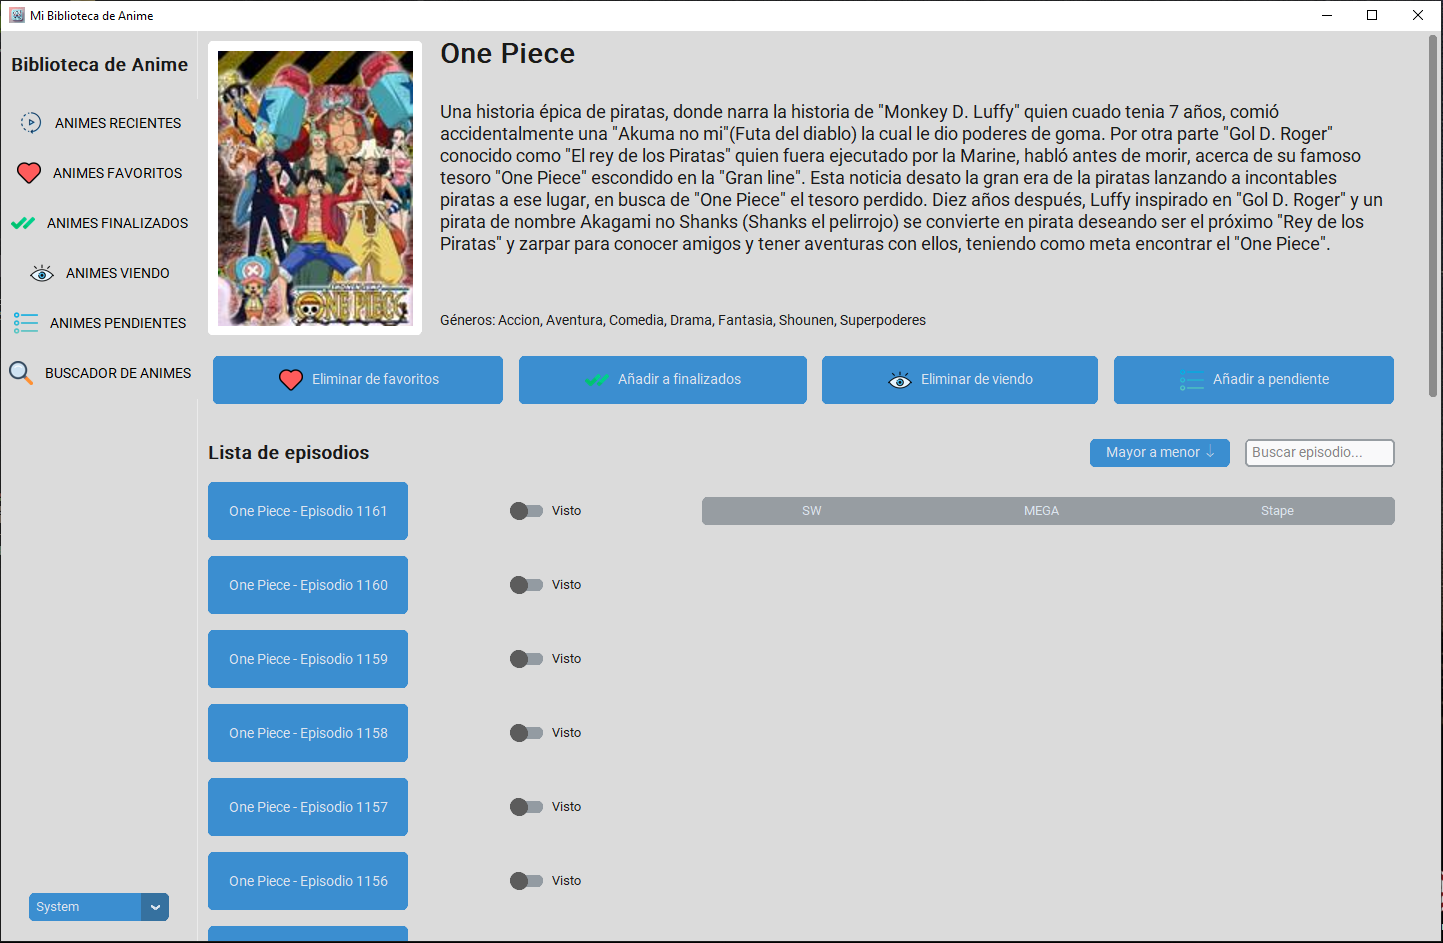
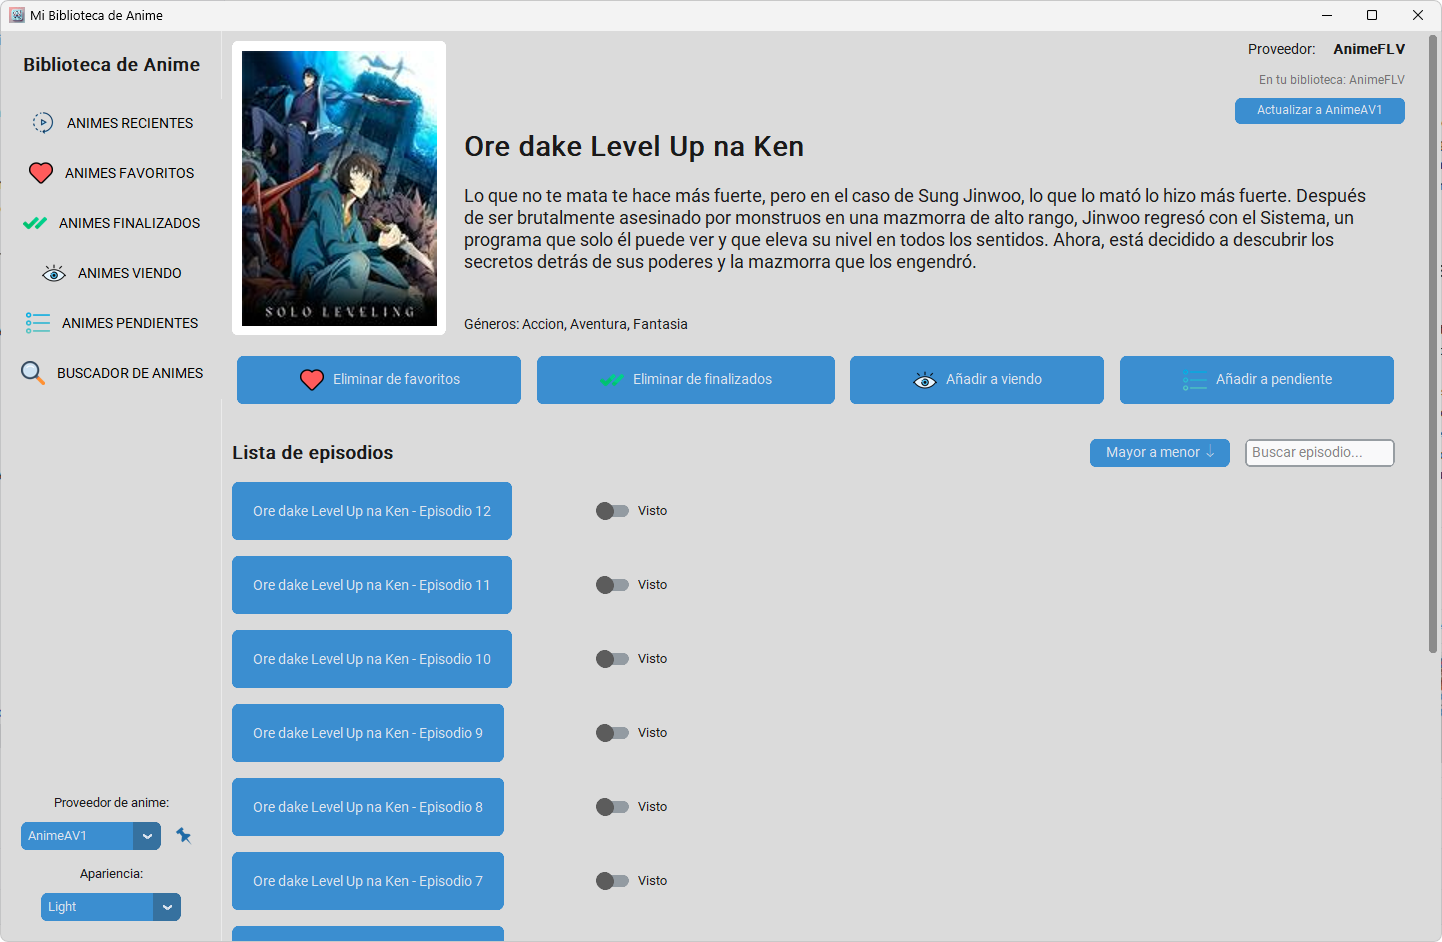
Actualización v0.2.0 del proyecto.

diff --git a/README.md b/README.md
@@ -31,8 +31,8 @@ A diferencia de plataformas como MyAnimeList o Anilist, este proyecto nace con u
 
 ## Capturas de Pantalla
 
-| Vista Principal | Detalles del Anime |
-| :---: | :---: |
+|               Vista Principal               |               Detalles del Anime               |
+|:-------------------------------------------:|:----------------------------------------------:|
 | ![](resources/images/utils/MainWindows.PNG) | ![](resources/images/utils/AnimeWindow.PNG) |
 
 ---
@@ -85,20 +85,34 @@ MiBibliotecaAnime/
 ├── src/
 │   ├── app.py                          # Punto de entrada principal
 │   ├── APIs/
+│   │   ├── common/
+│   │   │   ├── models.py               # Estructuras de datos comunes a todos los proveedores
+│   │   │   └── animeProviderMgr.py     # Gestor de proveedores de Anime
+│   │   ├── animeav1/
+│   │   │   └── animeav.py              # Cliente web scraping de AnimeAV1
+│   │   ├── jkanime/
+│   │   │   └── jkanime.py              # Cliente web scraping de JKAnime
 │   │   └── animeflv/
 │   │       └── animeflv.py             # Cliente web scraping de AnimeFLV
 │   ├── dataPersistence/
-│   │   └── animesPersistence.py        # Capa de acceso a datos (SQLite)
+│   │   ├── animesPersistence.py        # Capa de acceso a datos de animes persistidos (SQLite)
+│   │   └── userPersistence.py          # Capa de acceso a datos del usuario persistidos (SQLite)
 │   ├── gui/
 │   │   ├── main_window.py              # Ventana principal (CTk)
 │   │   ├── anime_window.py             # Vista de detalle de un anime
 │   │   └── sidebarButtons/
-│   │       ├── recentAnimes/           # Botón y vista: animes recientes
-│   │       ├── favouriteAnimes/        # Botón y vista: favoritos
-│   │       ├── finishedAnimes/         # Botón y vista: finalizados
-│   │       ├── watchingAnimes/         # Botón y vista: viendo
-│   │       ├── pendingAnimes/          # Botón y vista: pendientes
-│   │       └── searchAnimes/           # Botón y vista: buscador
+│   │       ├── recentAnimes/           
+│   │       │   └── recentAnimes.py     # Botón y vista: animes recientes
+│   │       ├── favouriteAnimes/        
+│   │       │   └── favouriteAnimes.py  # Botón y vista: favoritos
+│   │       ├── finishedAnimes/         
+│   │       │   └── favouriteAnimes.py  # Botón y vista: favoritos
+│   │       ├── watchingAnimes/         
+│   │       │   └── watchingAnimes.py   # Botón y vista: viendo
+│   │       ├── pendingAnimes/          
+│   │       │   └── pendingAnimes.py    # Botón y vista: pendientes
+│   │       └── searchAnimes/           
+│   │           └── searchAnimes.py     # Botón y vista: buscador
 │   └── utils/
 │       ├── utils.py                    # Helpers generales (imágenes, rutas, descarga)
 │       ├── buttons/
@@ -107,7 +121,8 @@ MiBibliotecaAnime/
 │           └── sqlite.py               # Abstracción sobre sqlite3
 ├── resources/
 │   ├── DB/
-│   │   └── DB_Animes.db                # Base de datos SQLite (generada en tiempo de ejecución)
+│   │   ├── DB_Animes.db                # Base de datos SQLite de Animes (generada en tiempo de ejecución)
+│   │   └── DB_user.db                  # Base de datos SQLite de configuración del usuario (generada en tiempo de ejecución)
 │   └── images/
 │       ├── utils/                      # Iconos de la app (app_icon.ico, loading-image.gif, etc.)
 │       ├── recent_animes/              # Posters en caché de animes recientes
@@ -117,12 +132,12 @@ MiBibliotecaAnime/
 │       ├── pending/                    # Posters de animes pendientes
 │       └── search/                     # Posters temporales del buscador
 ├── MiBibliotecaAnime.spec              # Configuración de PyInstaller
-└── requirements.txt
+└── requirements.txt                    # Librerías externas de python requeridas
 └── README.md                           # Documentación del proyecto
 ```
 
 ## Próximos Pasos
- - Integración con mas servicios de streaming online de anime como animeav1 o jkanime.
+ - Integración con mas servicios de streaming online de anime como MonosChinos2 o TioAnime.
  - Integración con servicios de visualización de manga online.
  - Alternar entre visualización de anime y manga.
  - Capacidad de identificar el capitulo del manga por el que continuar tras finalizar un anime.
